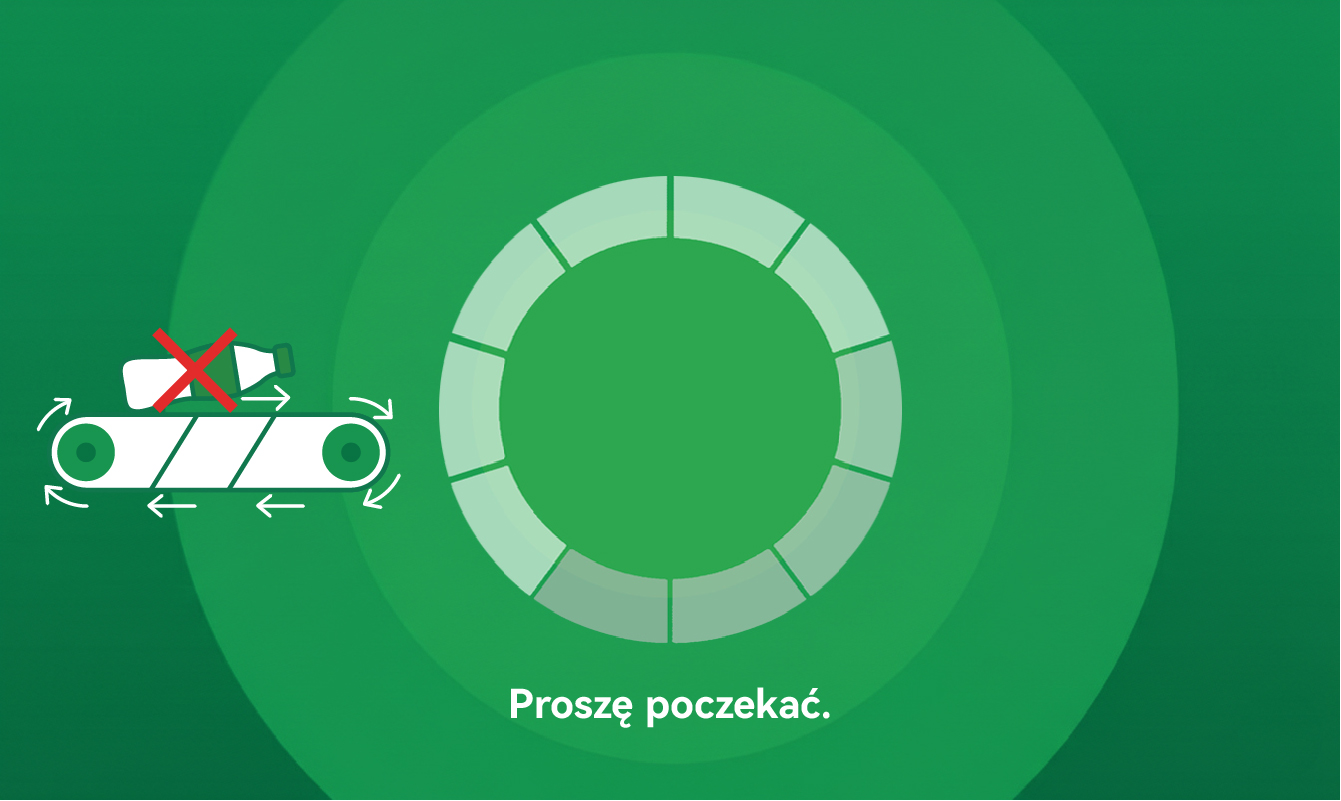
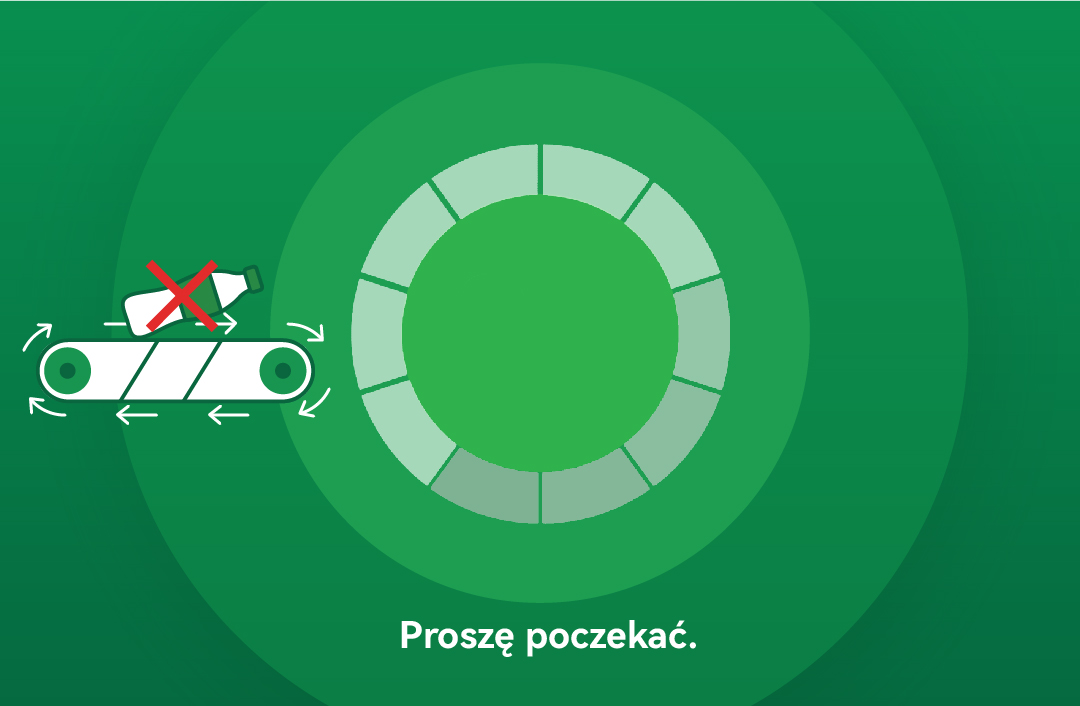
error message change

Changed region(s): [[0.0306, 0.3116, 0.7639, 0.966], [0.0, 0.779, 1.0, 1.0], [0.3667, 0.187, 0.7028, 0.4986]]

diff --git a/tjt/machine_error.php b/tjt/machine_error.php
@@ -17,10 +17,10 @@
 				<div class="cricle-three"></div>
 			</div>
 		</div>
-<div style='font-size:35px;margin-top:250px;position:absolute;color:white;margin-left:295px;justify-content:center;align:center;align-items:center'>
-Wykrywanie obcych przedmiotów <p style='margin-left:30px'>
+<div style='font-size:35px;margin-top:250px;position:absolute;color:white;margin-left:280px;justify-content:center;align:center;align-items:center'>
+Wykryto przedmiot w maszynie.<p style='margin-left:-75px'>
 
-Proszę usunąć obcy przedmiot  <p style='margin-left:110px'> i spróbuj odzyskać.
+Naciśnij przycisk na panelu autonaprawa. <p style='margin-left:110px'>  
 			</div>	 
 		<div class="content">
 			<div class="center">
@@ -31,7 +31,7 @@ Proszę usunąć obcy przedmiot  <p style='margin-left:110px'> i spróbuj odzysk
 					<div class="btnContent">
 				  
 				 
-					 <a href="http://127.0.0.1/tjt/wait_restore.php" >  <button  class="btn bottombtn" style='position:absolutel;margin-left:20;color:#0f613b;font-size:15px'   >Próba odzyskania</button>  
+					 <a href="http://127.0.0.1/tjt/wait_restore.php" >  <button  class="btn bottombtn" style='position:absolutel;margin-left:20;color:#0f613b;font-size:15px'   >Autonaprawa</button>  
   
  </a> 
   

diff --git a/tjt/wait_restore.php b/tjt/wait_restore.php
@@ -21,11 +21,11 @@
 		
  
 					        .text {
-            bottom:40%;
+            bottom:43%;
            text-align: center;
  position: absolute;
  
-  left: 51%;
+  left: 50%;
   transform: translate(-50%, -50%); 
             transform: translate(-50%, 0%);
             white-space: nowrap;

diff --git a/tjt/winter_belt_runing.php b/tjt/winter_belt_runing.php
@@ -21,11 +21,11 @@
 		
  
 					        .text {
-            bottom:40%;
+            bottom:44%;
            text-align: center;
  position: absolute;
  
-  left: 51%;
+  left: 50%;
   transform: translate(-50%, -50%); 
             transform: translate(-50%, 0%);
             white-space: nowrap;
